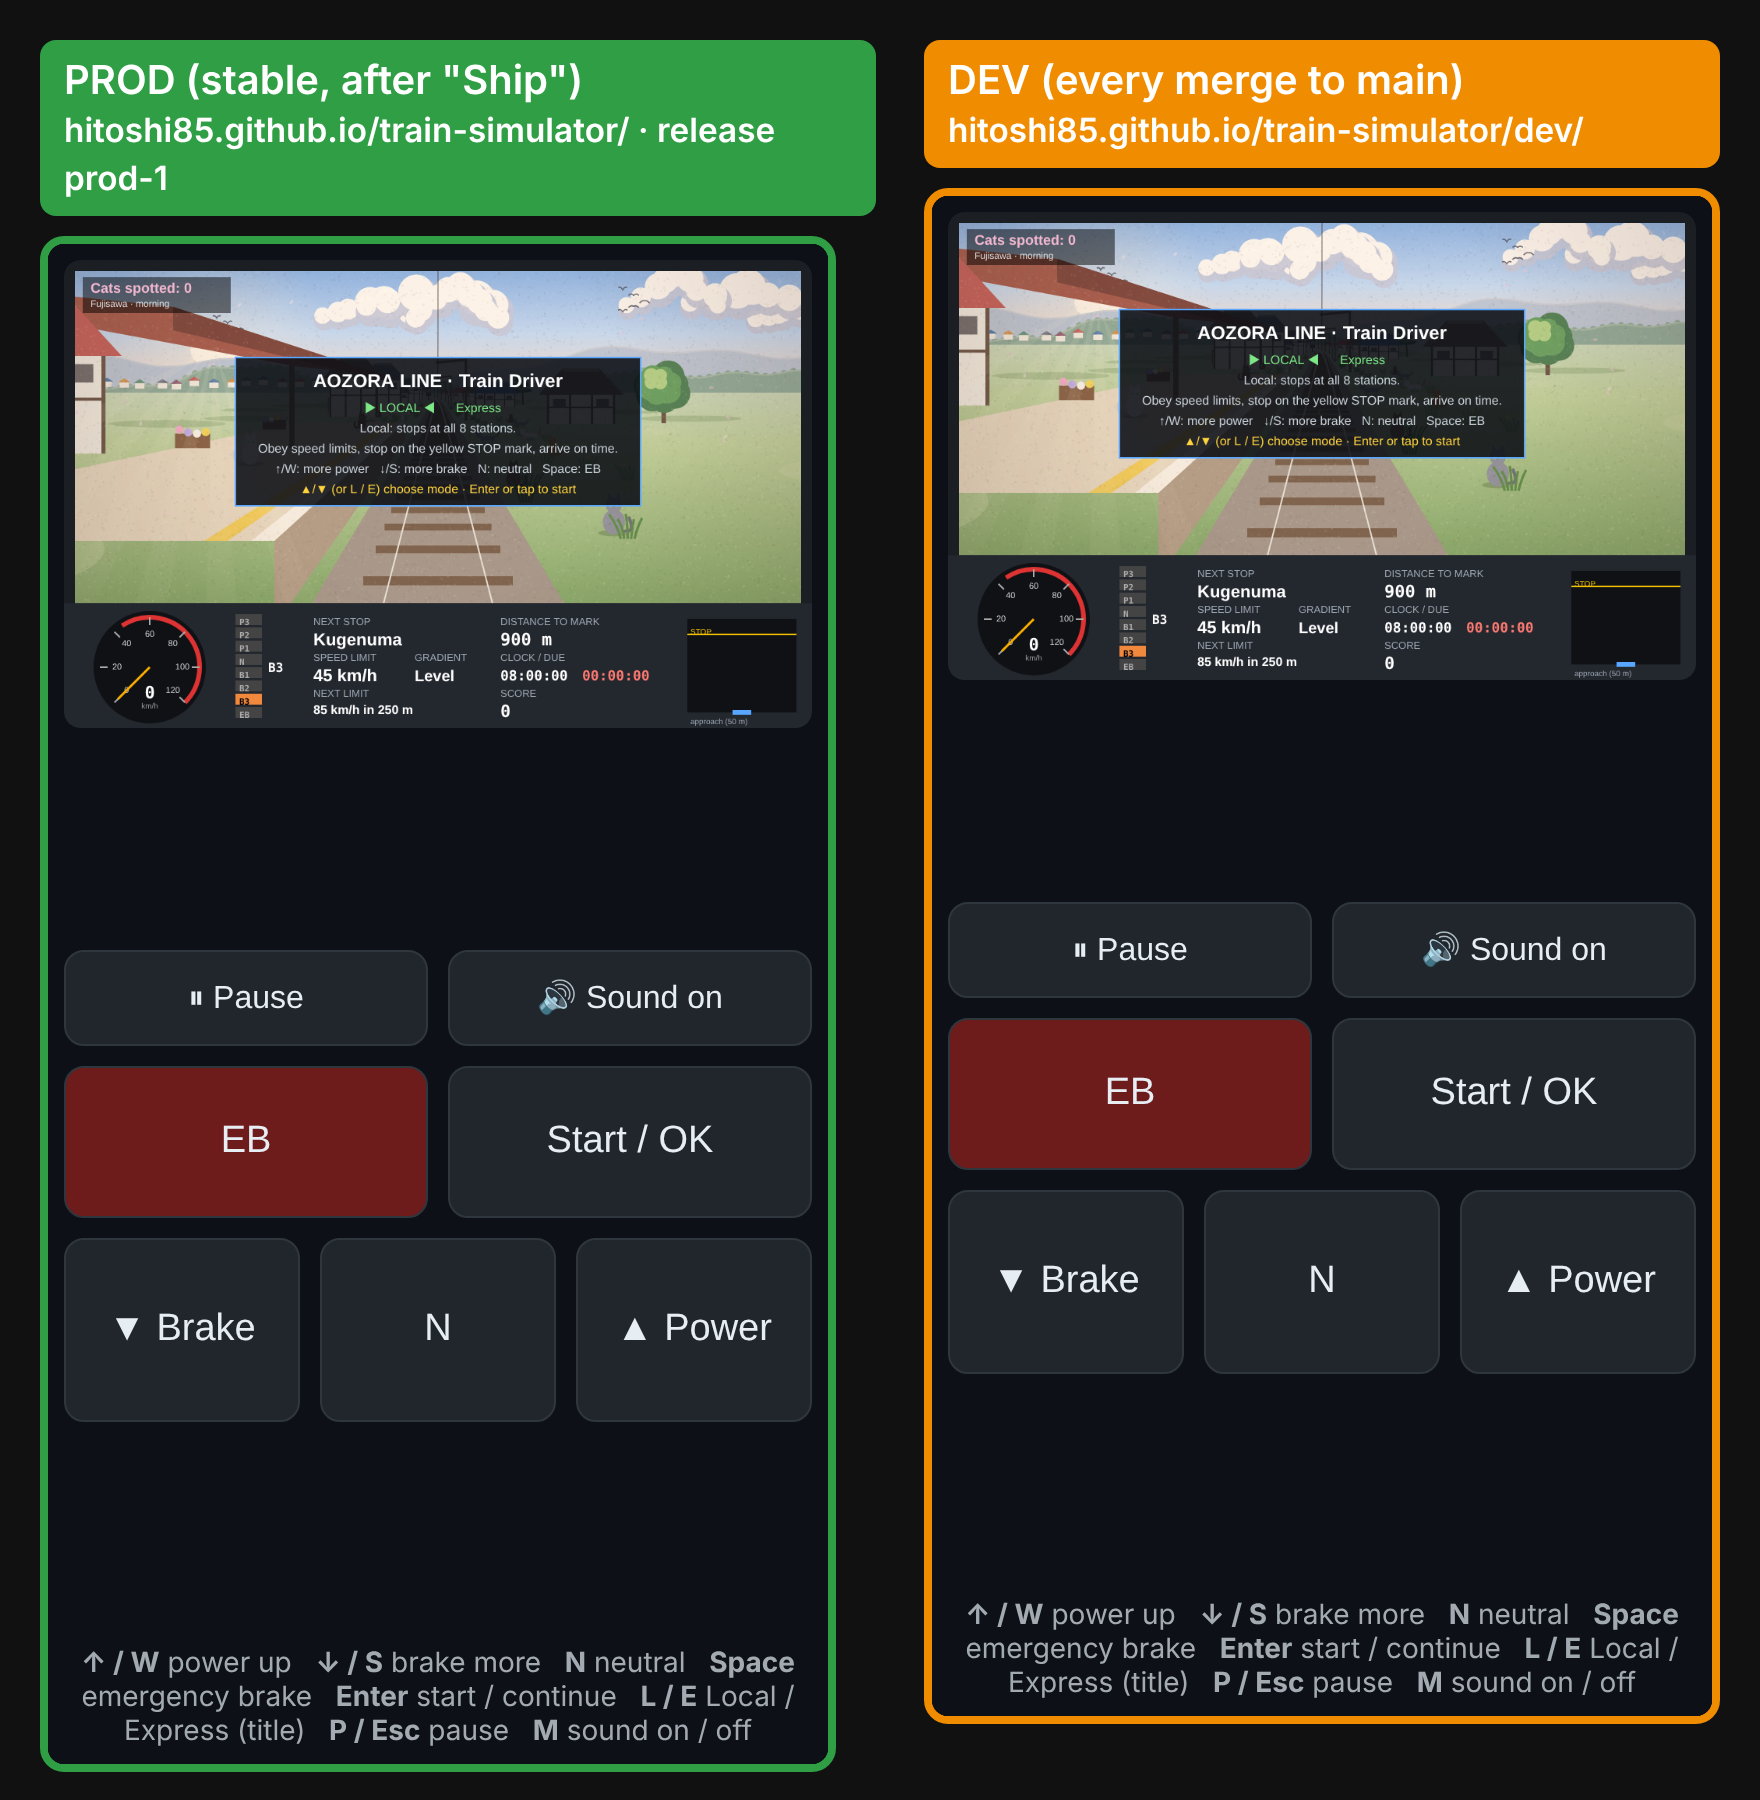
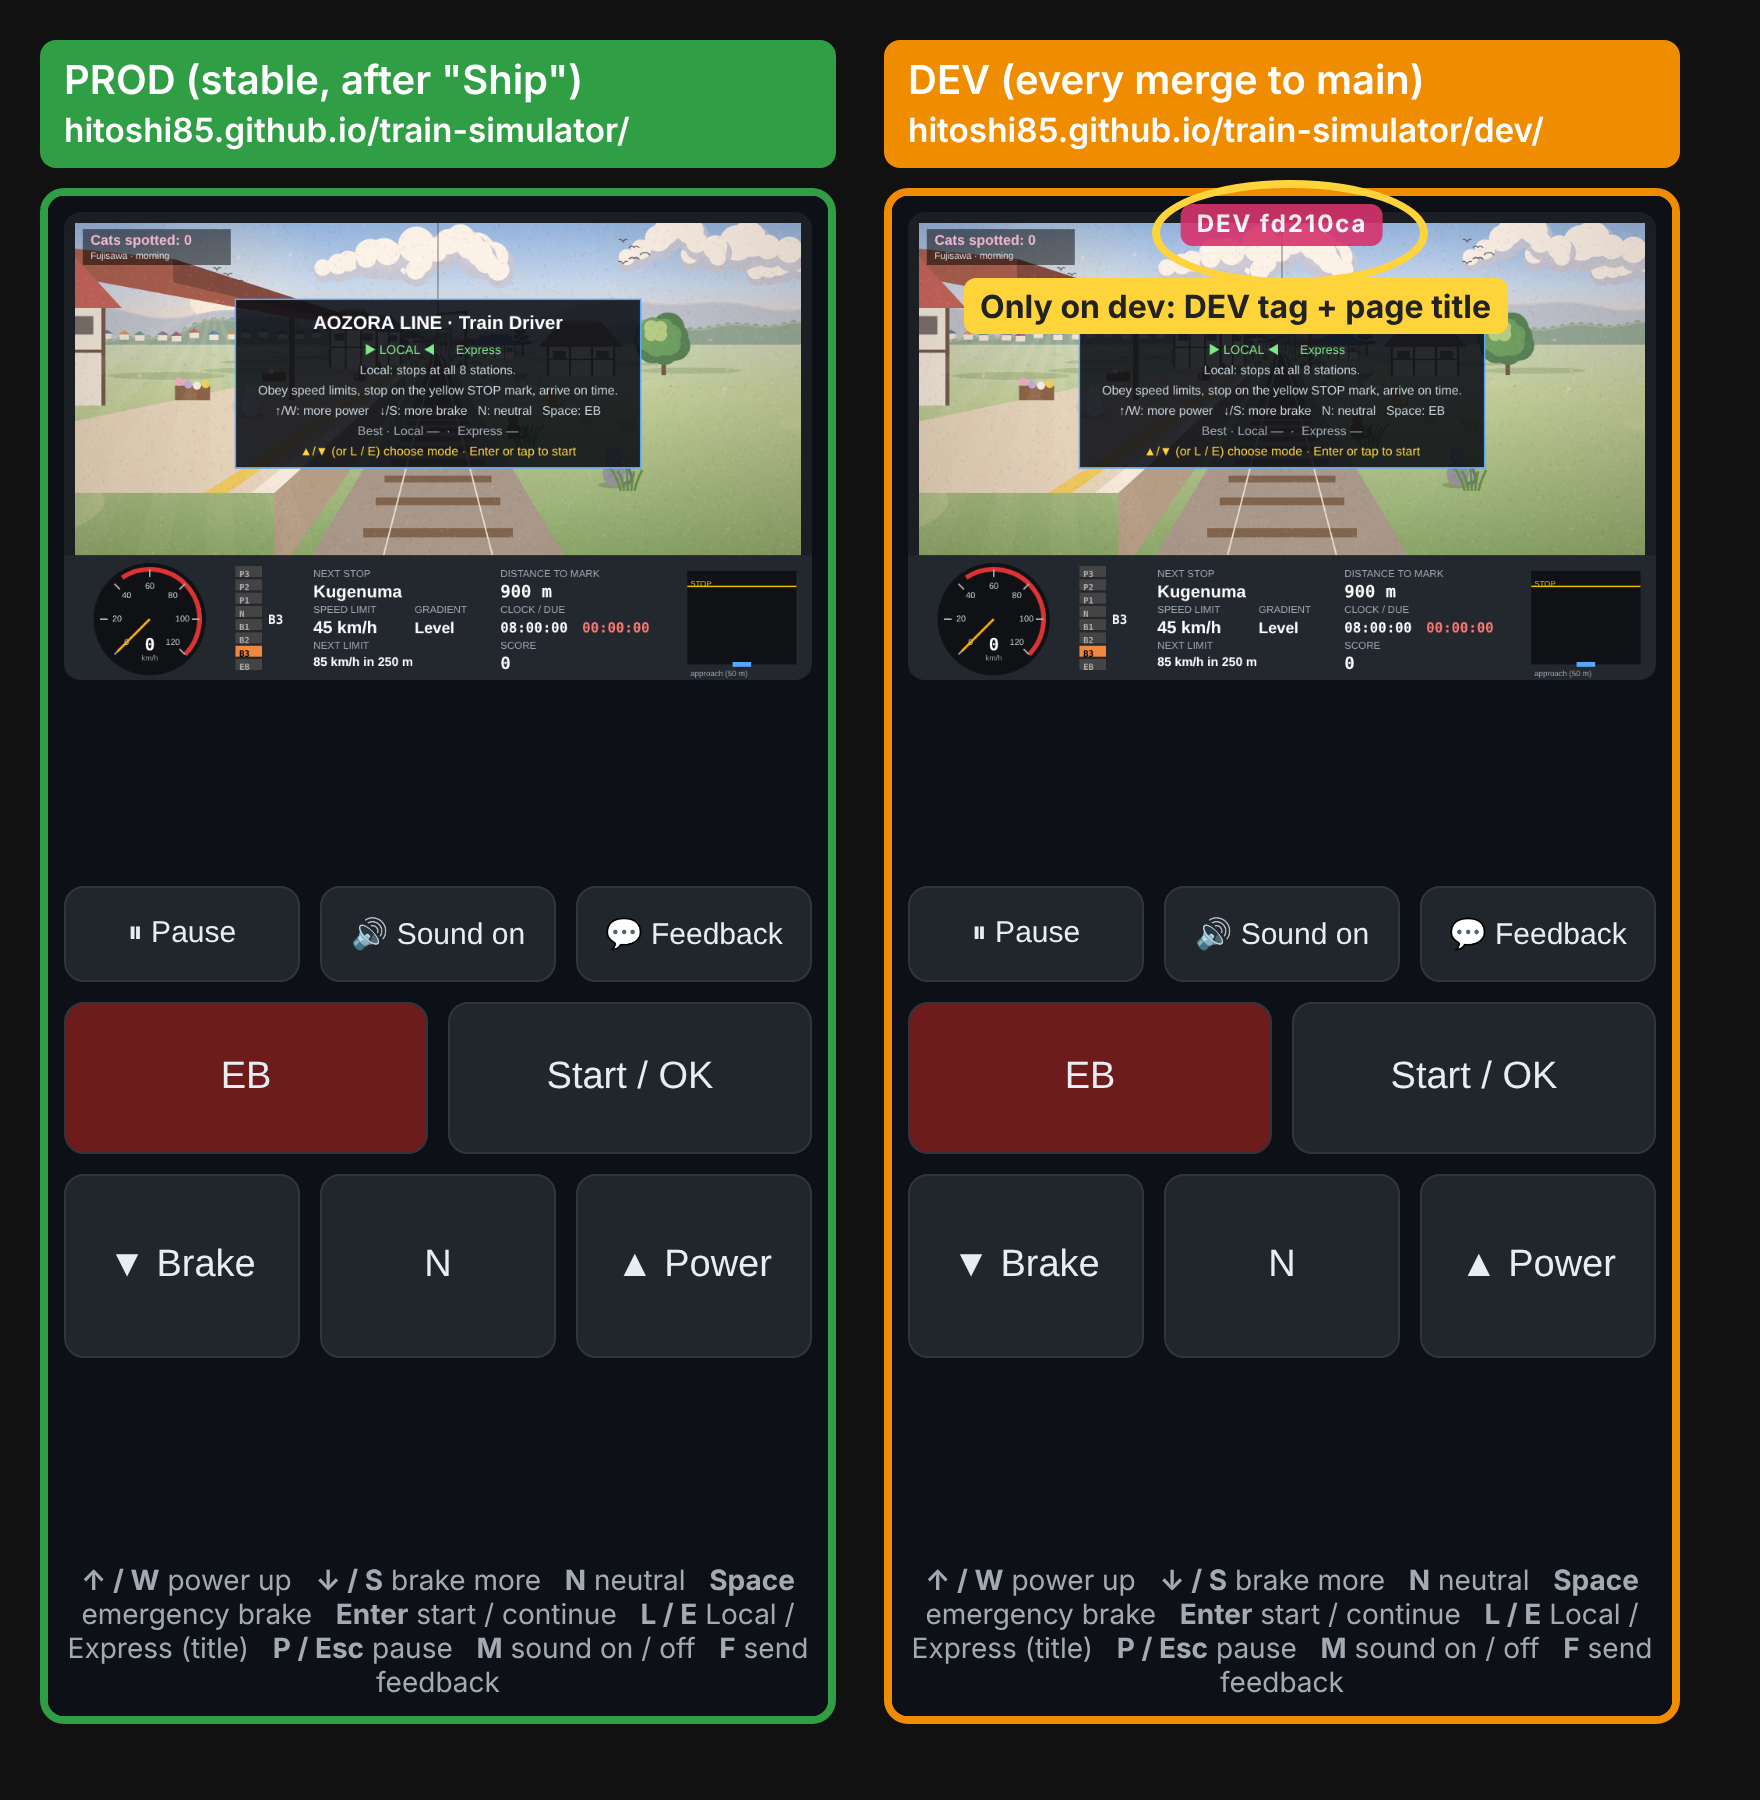
Mark the dev site with a DEV tag and page title (Hitoshi's follow-up)
Claude-Session: https://claude.ai/code/session_01214AnR1Q1313gBP5KEFpA9

diff --git a/tests/site-build.spec.js b/tests/site-build.spec.js
@@ -2,7 +2,7 @@
 // _site-test/ by .github/scripts/build-site.sh before the tests start (see playwright.config.js).
 // Checks both copies load and run, say which site and commit they are, and stay fresh on phones:
 // versioned asset URLs, and a reload onto a newer deploy without a hard refresh.
-// Dev and prod look identical in the game (Hitoshi's choice), so only version.json tells them apart.
+// Dev shows a small "DEV <sha>" tag and DEV in the page title; prod is unmarked (Hitoshi's choice).
 const { test, expect } = require('@playwright/test');
 
 const SITES = [{ env: 'prod', dir: '/_site-test/' }, { env: 'dev', dir: '/_site-test/dev/' }];
@@ -27,6 +27,14 @@ for (const site of SITES) {
       await page.waitForFunction(() => window.__train && window.__train.stats.frames > 2, null, { timeout: 15000 });
       await page.waitForTimeout(500); // the freshness check has answered: same build, so no reload
       expect(page.url()).toMatch(/index\.html$/);
+      const badge = page.locator('#env-badge');
+      if (site.env === 'dev') {
+        await expect(badge).toHaveText(`DEV ${short}`);
+        await expect(page).toHaveTitle(new RegExp(`^DEV ${short} · `));
+      } else {
+        await expect(badge).toHaveCount(0);
+        await expect(page).not.toHaveTitle(/DEV/);
+      }
       expect(errors).toEqual([]);
     });
 

diff --git a/REQUIREMENTS.md b/REQUIREMENTS.md
@@ -60,7 +60,7 @@ is recorded here in the same PR or thread that handles it (see the rule in [CLAU
 | W12 | Automatic phone and speed checks on every PR: CI takes phone screenshots (portrait 390×844 and landscape 844×390, title and mid-run; artifact `phone-screenshots`) and fails a PR if the median time to draw one frame at phone size is over 16 ms (60 fps). Frame times appear in the CI job summary. | In place (#21) |
 | W13 | PR review inside the project, no separate setup or API key: a Claude "PR reviewer" thread reviews only the diff of each PR and posts one comment with a `project-review: PASS/BLOCK <sha>` verdict. The merge queue waits for a PASS on the latest commit (a rebase by the queue carries it over); BLOCK keeps the PR out until fixed. Docs-only PRs skip the review. Hitoshi does not review small PRs. Process: `docs/REVIEW.md`. | Built (#27); the old API-key review workflow is removed |
 | W14 | Merge queue: one PR at a time, oldest first; the queue rebases it onto `main`, re-runs CI, merges when green, deploys, then moves to the next. A PR it cannot rebase gets a `queue-conflict` label and a comment. | Done (#22) |
-| W16 | Separate dev and prod web links: prod stays at `https://hitoshi85.github.io/train-simulator/` (Hitoshi's choice), dev is at `/dev/`. When Hitoshi types "Ship" in the project chat, the version dev serves is promoted to prod as a tagged GitHub release (`prod-1`, `prod-2`, …); a rollback re-points prod at an earlier release. The live check verifies both sites. README.md always shows the latest prod and dev links with a `?v=<short-sha>` suffix, updated by the deploy workflow. | Done (this PR) |
+| W16 | Separate dev and prod web links: prod stays at `https://hitoshi85.github.io/train-simulator/` (Hitoshi's choice), dev is at `/dev/` and clearly marked: a small "DEV <commit>" tag at the top of the screen and "DEV" in the page title (prod is unmarked). When Hitoshi types "Ship" in the project chat, the version dev serves is promoted to prod as a tagged GitHub release (`prod-1`, `prod-2`, …); a rollback re-points prod at an earlier release. The live check verifies both sites. README.md always shows the latest prod and dev links with a `?v=<short-sha>` suffix, updated by the deploy workflow. | Done (this PR) |
 | W17 | Both dev and prod are phone friendly and always play the latest version without a hard refresh, even from a plain bookmark with no `?v=`: the deploy loads `game.js` and `style.css` as `?v=<commit>`, marks `index.html` no-cache, and a tiny check reads `version.json` (never cached) when the page opens or is restored, reloading once onto a newer deploy. The phone layout tests run against the repo copy and both built sites, and the post-deploy check also runs a phone-size check on each live site. | Done (this PR) |
 | W15 | Hitoshi talks only in the project chat with one orchestrator; threads send questions, ready PRs and manual steps through it instead of asking in their own thread. | In place |
 
@@ -68,7 +68,7 @@ is recorded here in the same PR or thread that handles it (see the rule in [CLAU
 
 | Date | Change | PR |
 |---|---|---|
-| 2026-11-08 | Dev and prod sites: merges go to dev (`/dev/`, looks the same as prod), "Ship" promotes dev to prod as a `prod-N` release with one-click rollback, live check on both, latest links kept in README.md; both sites phone friendly and self-updating without a hard refresh | this PR |
+| 2026-11-08 | Dev and prod sites: merges go to dev (`/dev/`, marked with a DEV tag and title), "Ship" promotes dev to prod as a `prod-N` release with one-click rollback, live check on both, latest links kept in README.md; both sites phone friendly and self-updating without a hard refresh | this PR |
 | 2026-11-07 | Basic browser train-driving game: notches, speed limits, 4 stops, stop-on-mark scoring | [#1](https://github.com/Hitoshi85/train-simulator/pull/1) |
 | 2026-11-07 | Lots of cats with a +2 cat bonus; random scenery every 10 s (Snowy Peaks, Red-Rock Canyon, Coastal Cliffs) | [#2](https://github.com/Hitoshi85/train-simulator/pull/2) |
 | 2026-11-07 | Cache-busting `?v=N` on game files so browsers load the latest version | [#3](https://github.com/Hitoshi85/train-simulator/pull/3) |
@@ -145,6 +145,7 @@ Newest at the bottom. "Outcome" says what was done about it.
 | 2026-11-08 | Question: which links should dev and prod use? (options: prod keeps the current link and dev moves to /dev/, both under /prod/ and /dev/, dev keeps the current link and prod moves to /prod/) | Hitoshi chose prod at the current link, dev at /dev/ (W16). |
 | 2026-11-08 | Question: how should the dev game show it is dev? (options: small DEV tag in a corner, no marker, tags on both) | Hitoshi chose no marker: dev and prod look the same; `version.json` on each site names its commit (W16). |
 | 2026-11-08 | "Make sure that both dev and prod are mobile friendly and does not require a hard refresh to play the latest version." | Added to the dev/prod PR: commit-versioned assets, no-cache page, a version check that reloads once onto a newer deploy, and phone checks on both sites (W17). |
+| 2026-11-08 | "Make dev link clear that it is dev." (changes the earlier no-marker choice) | Dev now shows a small "DEV <commit>" tag at the top centre, ignoring taps, and "DEV" in the page title; prod is unchanged (W16). |
 
 ## 4. Open backlog
 

diff --git a/docs/WORKFLOW.md b/docs/WORKFLOW.md
@@ -21,7 +21,7 @@
    The rules live in `.github/scripts/merge-queue.js` (tested in `tests/merge-queue.spec.js`).
 5. **Deploy to dev, Ship to prod.** `.github/workflows/pages.yml` serves two copies of the game on
    one Pages site: **prod** at `https://hitoshi85.github.io/train-simulator/` and **dev** at
-   `https://hitoshi85.github.io/train-simulator/dev/`. A merge to `main`
+   `https://hitoshi85.github.io/train-simulator/dev/` (marked with a "DEV <commit>" tag and title). A merge to `main`
    re-runs the checks and updates dev only; prod is rebuilt from the `prod` git tag. Each site has a
    `version.json` with its commit. The build (`.github/scripts/build-site.sh`) loads `game.js` and
    `style.css` as `?v=<commit>` and adds a tiny check that reloads the page once when `version.json`

diff --git a/README.md b/README.md
@@ -8,7 +8,7 @@ Open `index.html` in any modern browser, or play the web builds (links updated a
 
 <!-- play-links:start -->
 - **Prod** (stable, promoted with "Ship"): https://hitoshi85.github.io/train-simulator/?v=e783b5f
-- **Dev** (latest main, may be unfinished): https://hitoshi85.github.io/train-simulator/dev/
+- **Dev** (latest main, may be unfinished, marked "DEV"): https://hitoshi85.github.io/train-simulator/dev/
 <!-- play-links:end -->
 
 Every merge to `main` goes to **dev** only. Typing "Ship" in the project chat promotes the version dev
